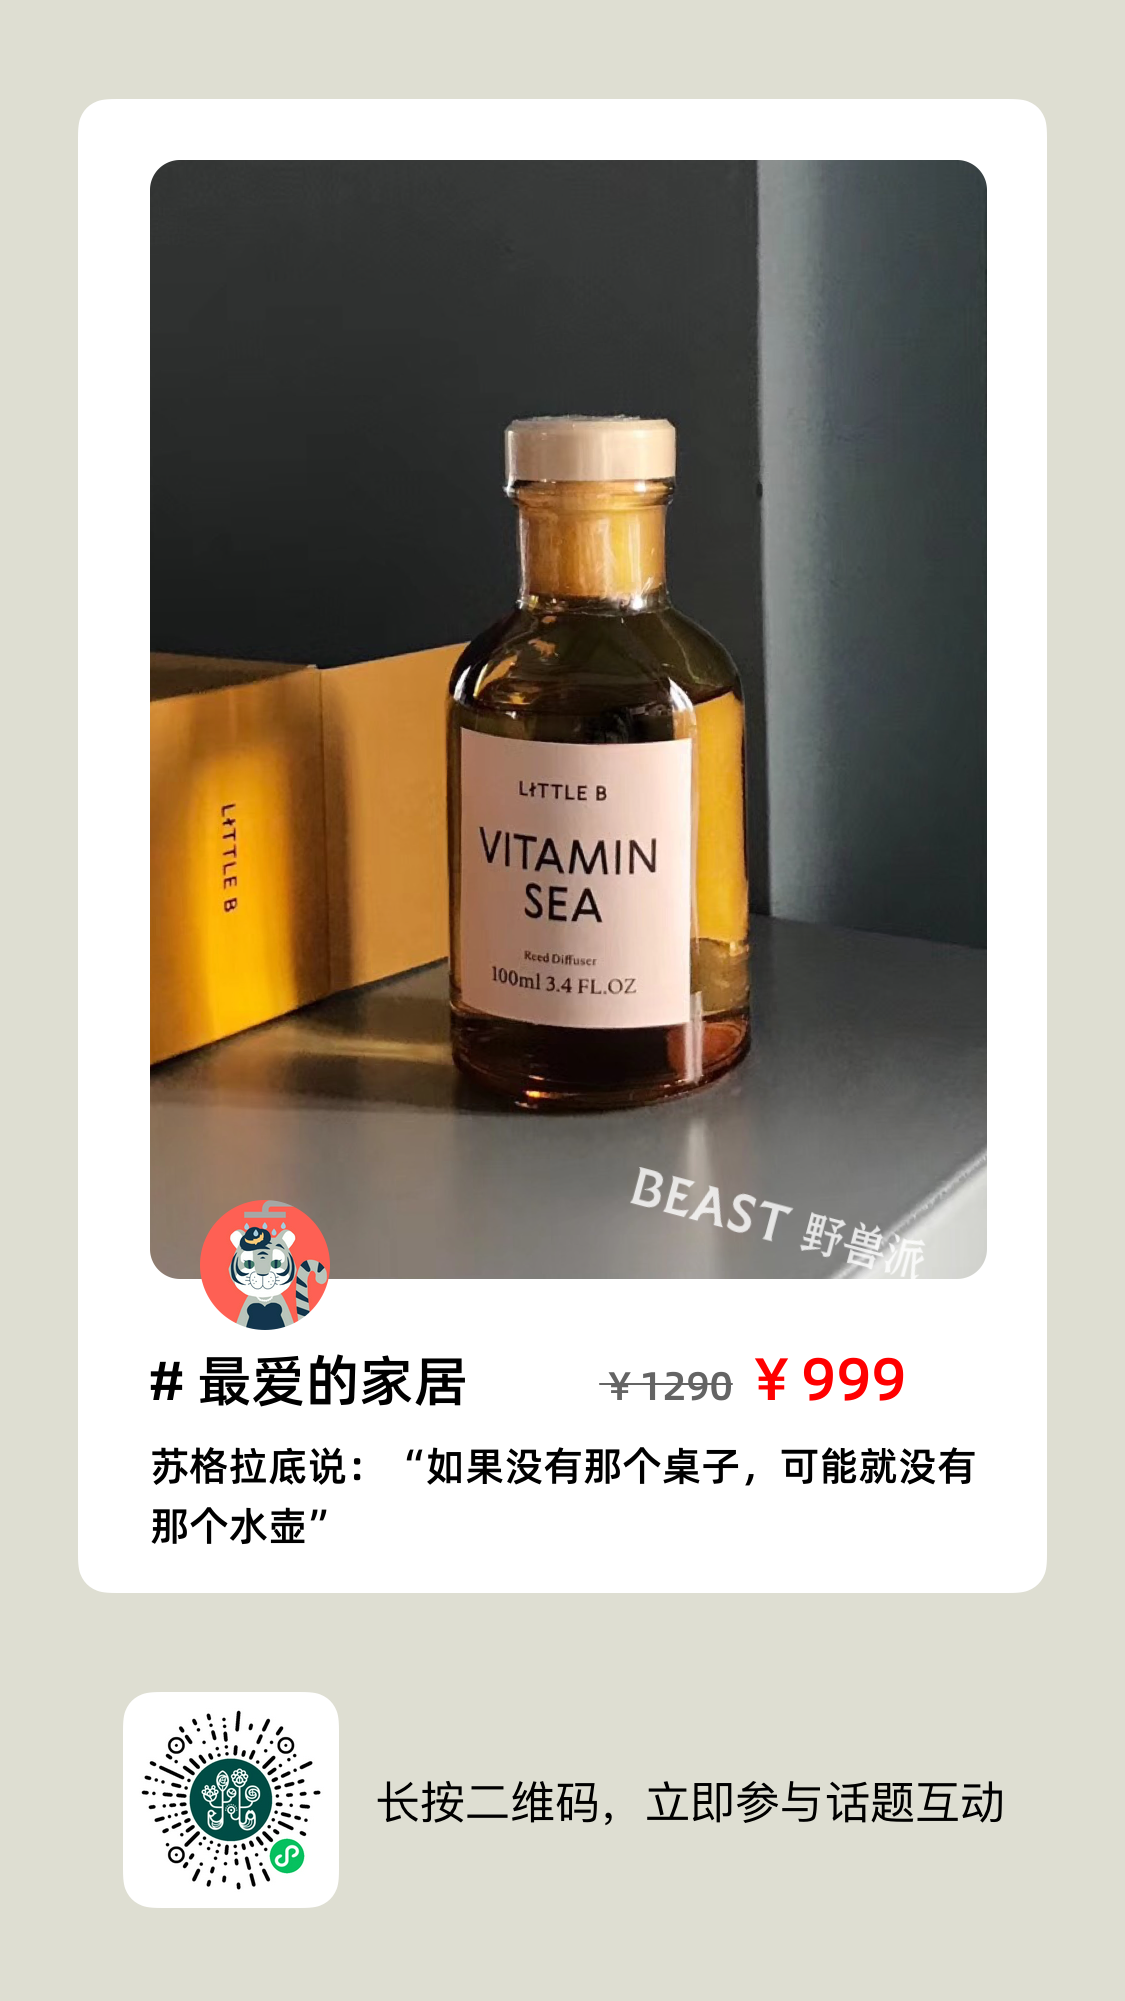
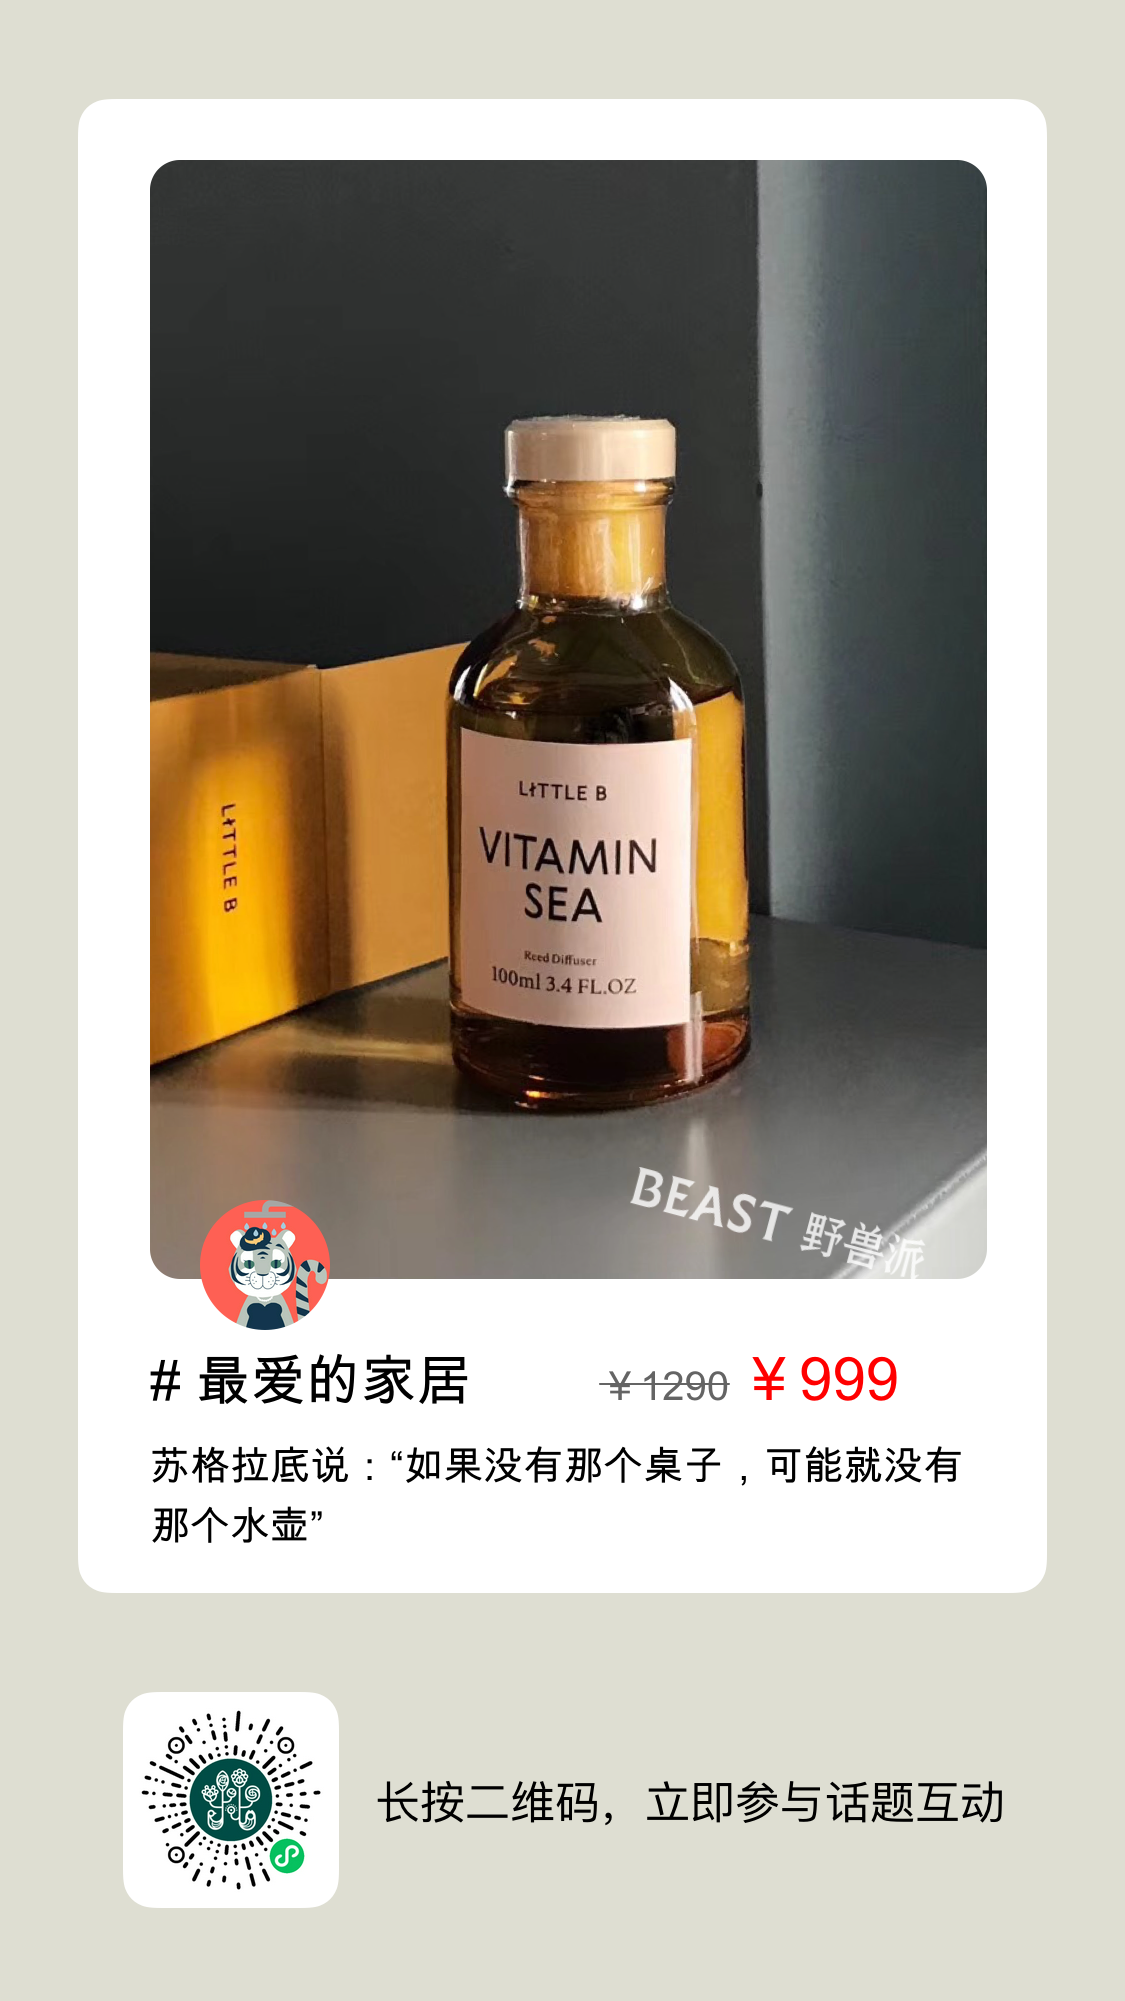
add 加载自定义字体

Changed region(s): [[0.1244, 0.6817, 0.6533, 0.7746], [0.6844, 0.6817, 0.8711, 0.7436]]

diff --git a/image_combiner.go b/image_combiner.go
@@ -81,6 +81,7 @@ type TextElement struct {
 	MaxLineCount  int         // 最大行数，超出部分将被截断
 	LineHeight    float64     // 行高，默认1.5倍字体大小
 	StrikeThrough bool        // 是否显示删除线
+	FontPaths     []string    // 自定义字体路径列表
 }
 
 // RectangleElement 矩形元素
@@ -99,6 +100,7 @@ type ImageCombiner struct {
 	elements      []CombineElement
 	outputFormat  OutputFormat
 	quality       float64
+	FontPaths     []string // 自定义字体路径列表
 }
 
 // NewImageCombiner 创建新的图片合成器
@@ -108,11 +110,11 @@ func NewImageCombiner(width, height int) *ImageCombiner {
 	ctx.Clear()
 
 	return &ImageCombiner{
-		width:       width,
-		height:      height,
-		context:     ctx,
+		width:        width,
+		height:       height,
+		context:      ctx,
 		outputFormat: PNG,
-		quality:     1.0,
+		quality:      1.0,
 	}
 }
 
@@ -143,11 +145,12 @@ func (ic *ImageCombiner) AddImageElement(imagePath string, x, y int, zoomMode Zo
 // AddTextElement 添加文本元素
 func (ic *ImageCombiner) AddTextElement(text string, fontSize float64, x, y int) *TextElement {
 	element := &TextElement{
-		Text:     text,
-		FontSize: fontSize,
-		X:        x,
-		Y:        y,
-		Color:    color.Black,
+		Text:      text,
+		FontSize:  fontSize,
+		X:         x,
+		Y:         y,
+		Color:     color.Black,
+		FontPaths: ic.FontPaths,
 	}
 
 	ic.AddElement(element)
@@ -331,13 +334,26 @@ func (te *TextElement) GetWidth() float64 {
 
 	// 加载字体，与Draw方法保持一致
 
-	// 优先加载系统字体确保测量一致性
-	if err := g.LoadFontFace("Alibaba-PuHuiTi-Medium.ttf", te.FontSize); err != nil {
-		if err := g.LoadFontFace("/Library/Fonts/Arial.ttf", te.FontSize); err != nil {
-			if err := g.LoadFontFace("/System/Library/Fonts/PingFang.ttc", te.FontSize); err != nil {
-				g.LoadFontFace("", te.FontSize)
-			}
+	// 默认字体路径优先级定义
+	var defaultFontPaths = []string{
+		"Alibaba-PuHuiTi-Medium.ttf",
+		"/Library/Fonts/Arial.ttf",
+		"/System/Library/Fonts/PingFang.ttc",
+	}
+
+	// 优化字体加载逻辑：使用预定义的字体路径
+	fontPaths := append(te.FontPaths, defaultFontPaths...)
+
+	var loadErr error
+	for _, path := range fontPaths {
+		if loadErr = g.LoadFontFace(path, te.FontSize); loadErr == nil {
+			break // 成功加载字体，退出循环
 		}
+	}
+
+	// 如果所有字体都加载失败，使用默认字体
+	if loadErr != nil {
+		g.LoadFontFace("", te.FontSize)
 	}
 
 	// 初始化行集合
@@ -402,13 +418,21 @@ func (te *TextElement) Draw(g *gg.Context, canvasWidth int) {
 
 	g.SetColor(te.Color)
 	// 字体加载逻辑：尝试加载自定义字体，失败时降级使用系统字体
-	// 优先加载系统字体确保测量一致性
-	if err := g.LoadFontFace("Alibaba-PuHuiTi-Medium.ttf", te.FontSize); err != nil {
-		if err := g.LoadFontFace("/Library/Fonts/Arial.ttf", te.FontSize); err != nil {
-			if err := g.LoadFontFace("/System/Library/Fonts/PingFang.ttc", te.FontSize); err != nil {
-				g.LoadFontFace("", te.FontSize) // 使用gg默认字体作为最后的备选
-			}
+	customFonts := te.FontPaths
+	if customFonts == nil {
+		customFonts = []string{}
+	}
+	systemFonts := []string{"Alibaba-PuHuiTi-Medium.ttf", "/Library/Fonts/Arial.ttf", "/System/Library/Fonts/PingFang.ttc"}
+	fonts := append(customFonts, systemFonts...)
+	fontLoaded := false
+	for _, fontPath := range fonts {
+		if err := g.LoadFontFace(fontPath, te.FontSize); err == nil {
+			fontLoaded = true
+			break
 		}
+	}
+	if !fontLoaded {
+		g.LoadFontFace("", te.FontSize) // 使用gg默认字体作为最后的备选
 	}
 
 	// 处理旋转文本

diff --git a/image_combiner_test.go b/image_combiner_test.go
@@ -190,6 +190,8 @@ func TestFullFunctionality(t *testing.T) {
 	bgWidth := bgImg.Bounds().Dx()
 	bgHeight := bgImg.Bounds().Dy()
 	combiner := NewImageCombiner(bgWidth, bgHeight)
+	// 加载字体
+	// combiner.FontPaths = []string{"/Library/Fonts/Arial Unicode.ttf"}
 
 	// 添加商品图
 	bg, err := combiner.AddImageElement(bgImageUrl, 0, 0, Origin)
